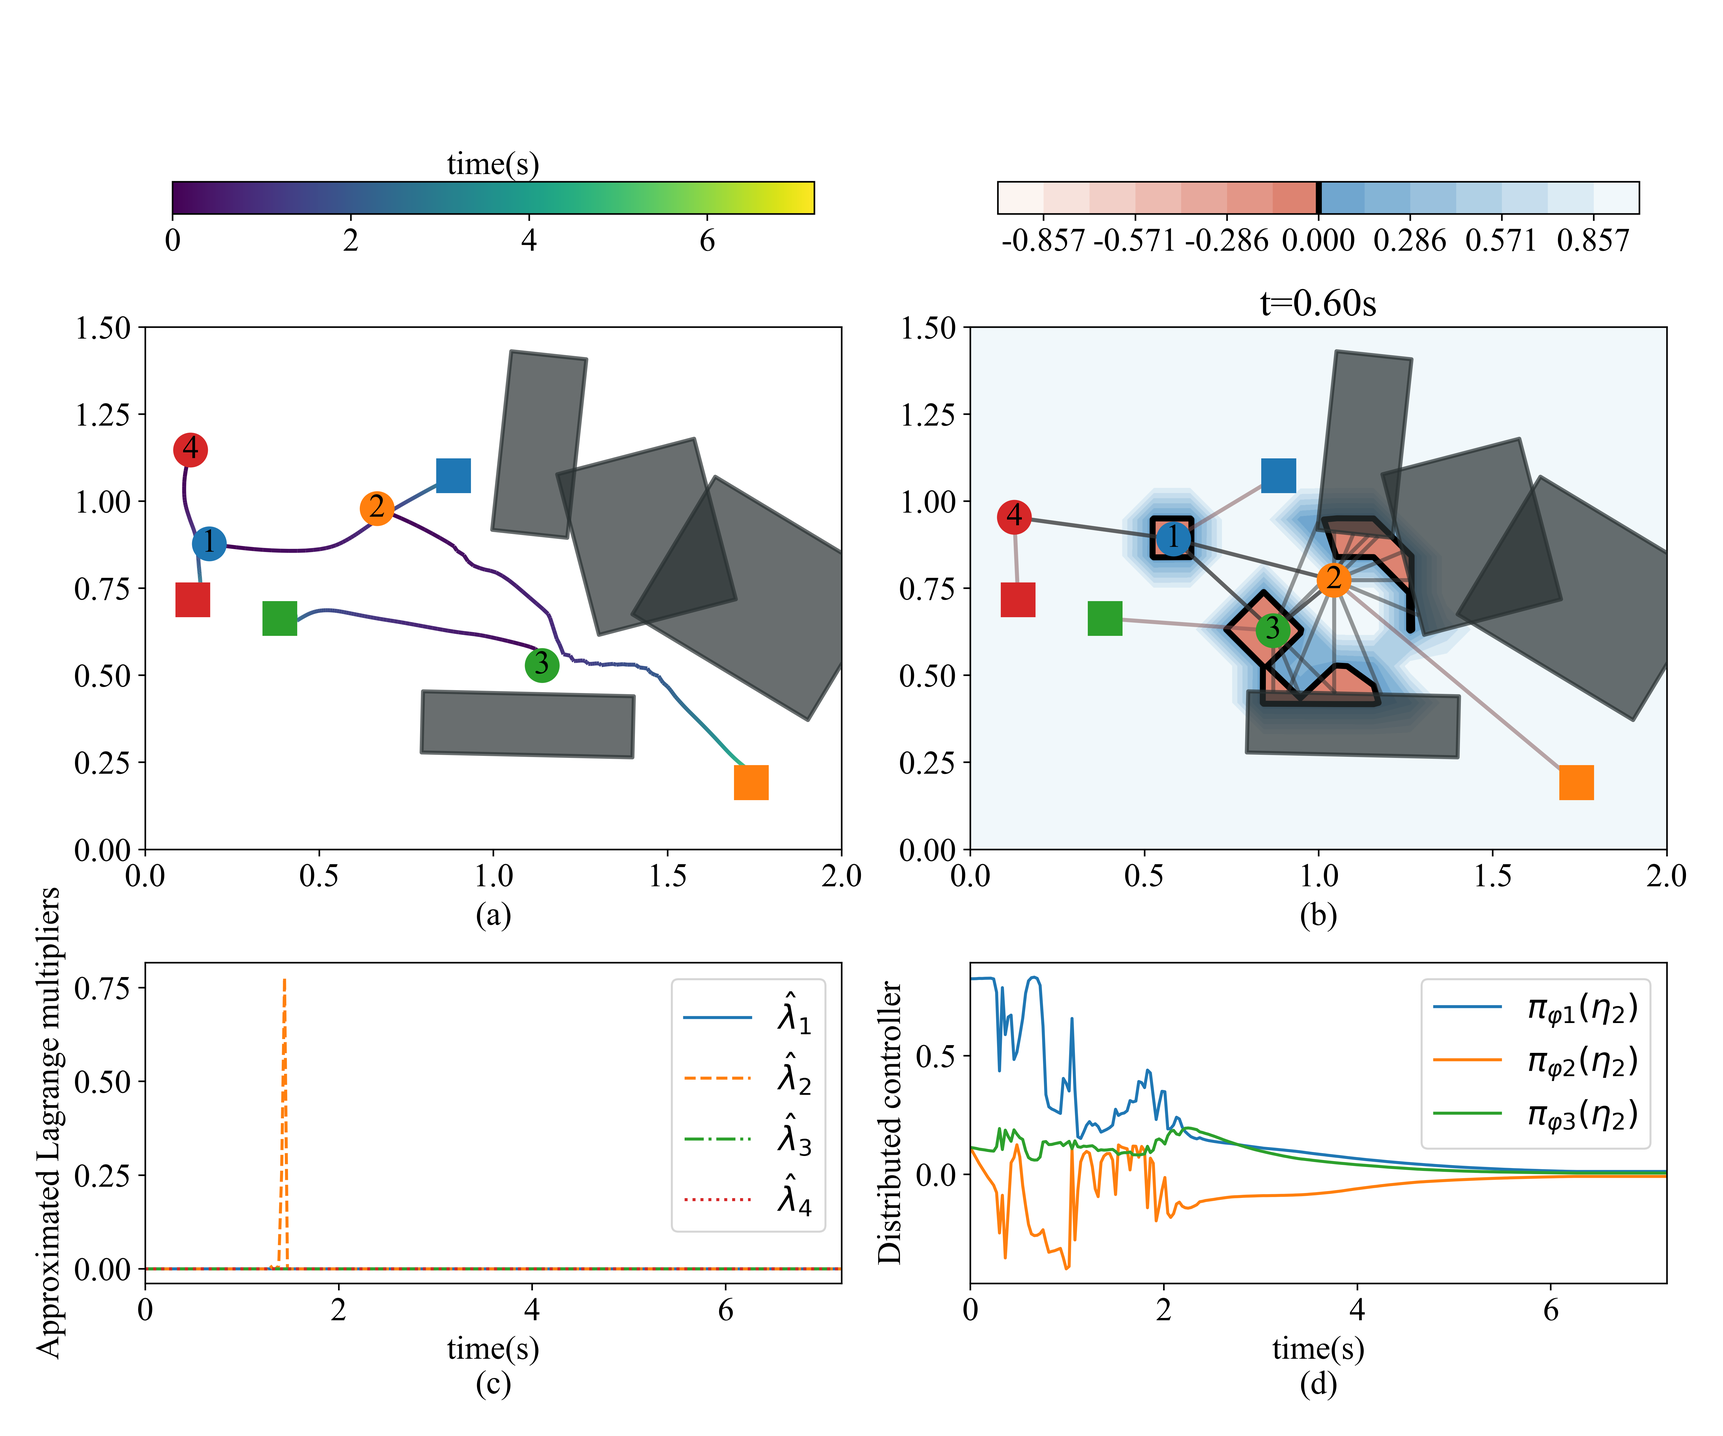
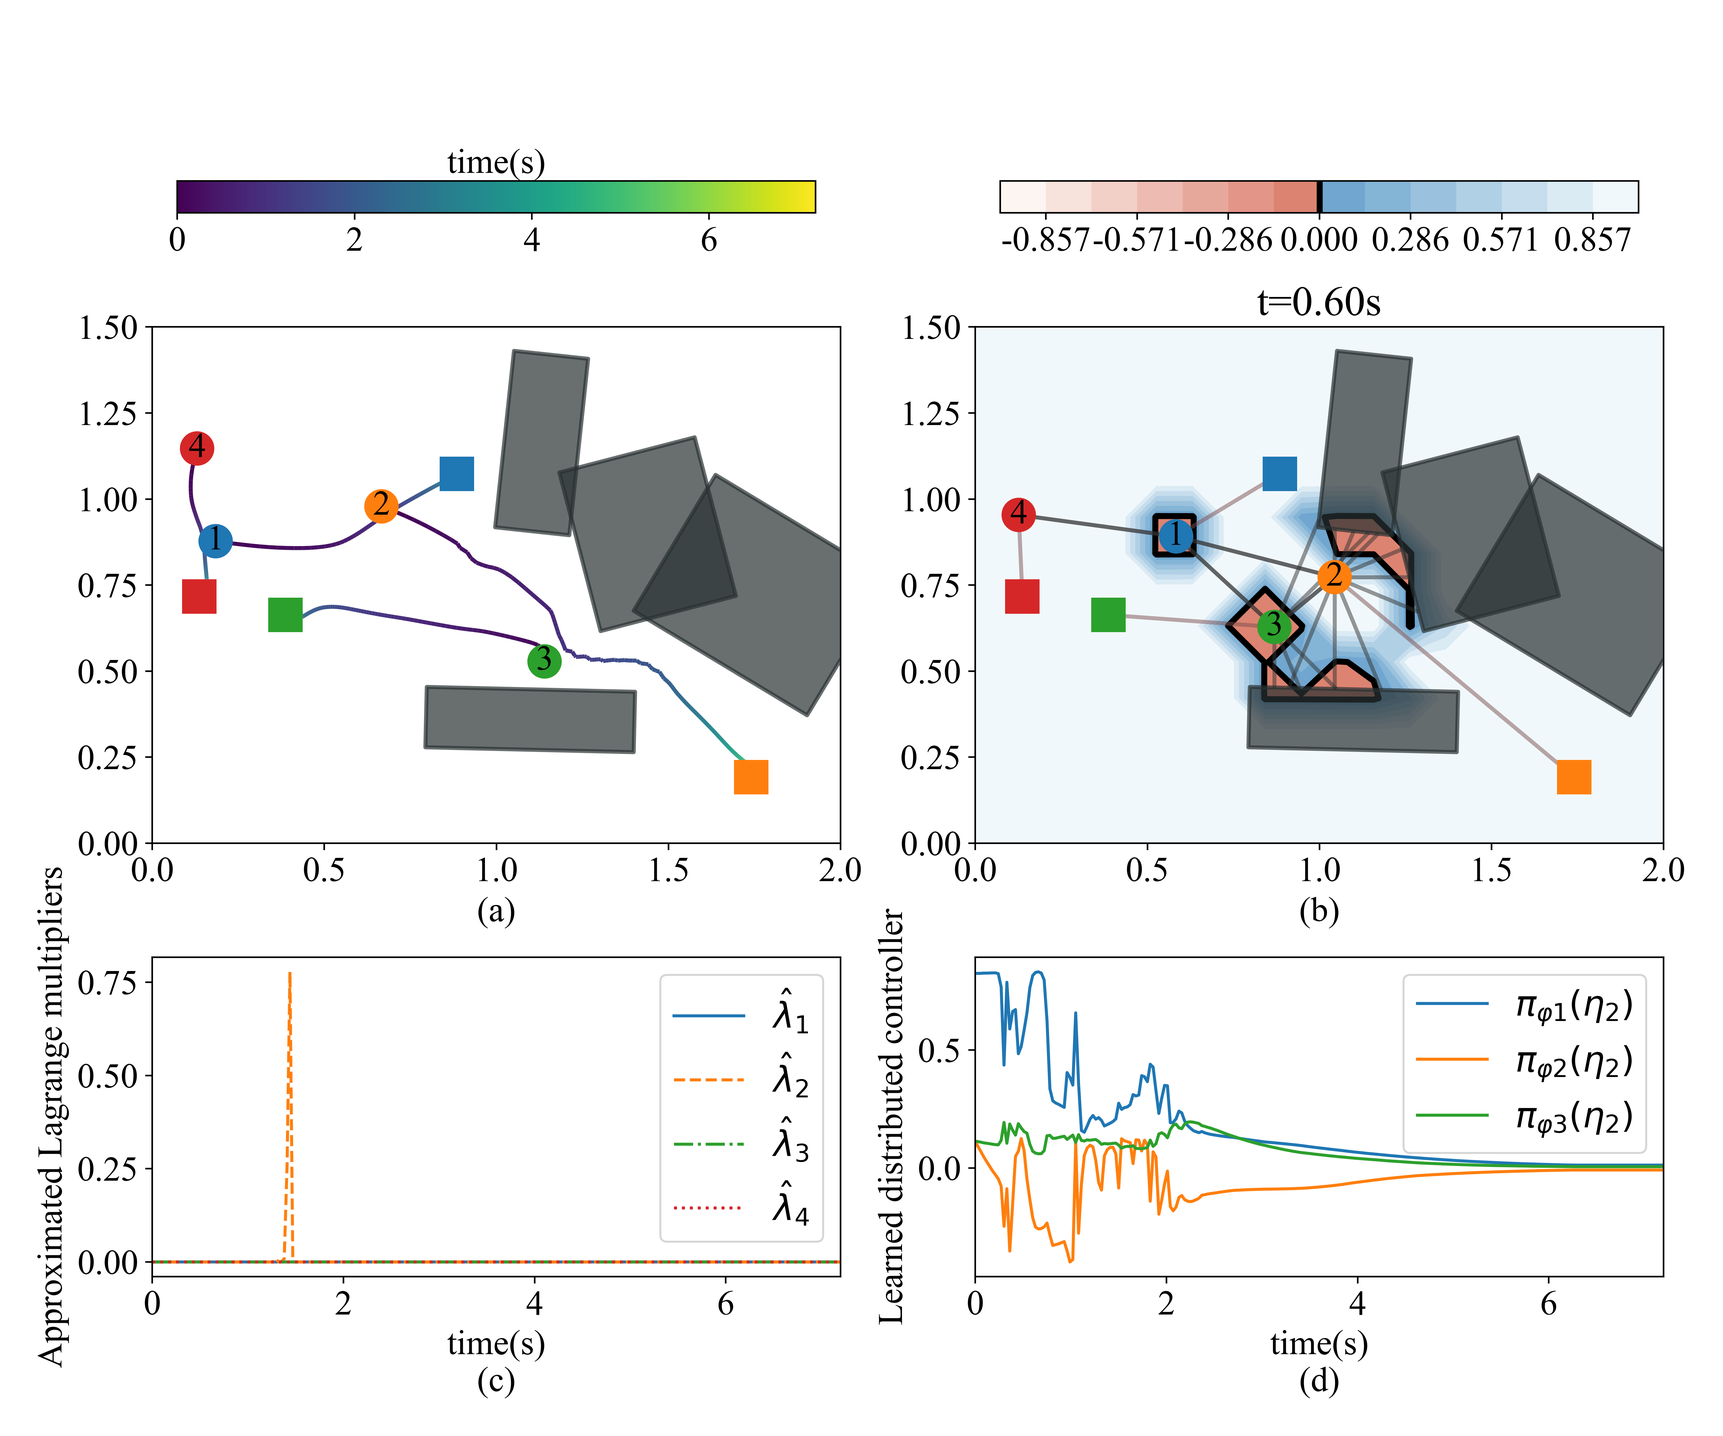
update HJB-GNN

diff --git a/assets/standalone/HJB-GNN/index.html b/assets/standalone/HJB-GNN/index.html
@@ -121,9 +121,10 @@
       <div class="column is-four-fifths">
         <h2 class="title is-3">Abstract</h2>
         <div class="content has-text-justified">
-          <p>Distributed multi-agent navigation faces inherent challenges due to the competing requirements of maintaining safety and achieving goal-directed behavior, especially for agents with limited sensing range and in environments with dense obstacles. Traditional navigation methods typically employ hand-crafted control barrier functions (CBFs) alongside pre-defined goal-reaching controllers, which often yield conservative and suboptimal trade-offs between safety and goal reaching.
-            This paper proposes a novel physics-informed learning framework for distributed safe multi-agent navigation. Specifically, we formulate infinite-horizon Hamilton-Jacobi-Bellman (HJB) equations subject to graph CBF-based safety constraints and employ graph neural networks (GNNs) to parameterize both a graph CBF and a distributed control policy. These components are jointly trained alongside a value function that robustly guides agents toward their goals. In addition, we introduce a state-dependent parameterization of Lagrange multipliers, enabling dynamic trade-offs between safety and performance. Unlike traditional short-horizon, quadratic programming-based CBF methods, our approach leverages long-horizon optimization to proactively avoid deadlocks and navigate complex environments more effectively.
-            Extensive simulation results demonstrate substantial improvements in safety and task success rates across various agent dynamics, with strong generalization to larger team sizes. Real-world experiments using crazyflie drone swarms on challenging antipodal position-swapping tasks further validate the practicality, scalability, and robustness of the proposed HJB-GNN framework.
+          <p>
+            Distributed multi-agent navigation faces inherent challenges due to the competing requirements of maintaining safety and achieving goal-directed behavior, particularly for agents with limited sensing range operating in unknown environments with dense obstacles. Existing approaches typically project predefined goal-reaching controllers onto control barrier function (CBF) constraints, often resulting in conservative and suboptimal trade-offs between safety and goal-reaching performance. 
+            We propose an infinite-horizon CBF-constrained optimal graph control formulation for distributed safe multi-agent navigation. By deriving the analytical solution structure, we develop a novel Hamilton-Jacobi-Bellman (HJB)-based learning framework to approximate the solution. In particular, our algorithm jointly learns a CBF and a distributed control policy, both parameterized by graph neural networks (GNNs), along with a value function that robustly guides agents toward their goals. Moreover, we introduce a state-dependent parameterization of Lagrange multipliers, enabling dynamic trade-offs between safety and performance. Unlike traditional short-horizon, quadratic programming-based CBF methods, our approach leverages long-horizon optimization to proactively avoid deadlocks and navigate complex environments more effectively.
+            Extensive simulation results demonstrate substantial improvements in safety and task success rates across various agent dynamics, with strong scalability and generalization to large-scale teams in previously unseen environments. Real-world experiments using Crazyflie drone swarms on challenging antipodal position-swapping tasks further validate the practicality, generalizability, and robustness of the proposed HJB-GNN learning framework. 
           </p>
         </div>
       </div>
@@ -140,6 +141,17 @@
     <!-- Main point hardware -->
     <div class="column">
       <h2 class="title is-3">Hardware Experiments</h2>
+
+      <div class="column">
+        <div class="columns is-centered">
+          <img src="static/images/fig8.png" class="center-image" style="max-width: 100%;" alt="fig 5">
+        </div>
+      </div>
+      <h3 style="margin-top: 20px">
+        Fig. 8. Hardware experiment setup for antipodal position-swapping task: (a) 8 Crazyflie drones without obstacle; (b) 2 Crazyflie drones with a long static obstacle; (c) 8 Crazyflie drones with large non-convex static obstacles; (d) 8 Crazyflie drones with both a static obstacle and a large dynamic obstacle mounted on a randomly moving car.
+      </h3>
+      <br><br><br><br>
+
       <div class="container">
 
         <!-- Grid container -->
@@ -147,63 +159,97 @@
 
           <!-- Carousel 1 -->
           <div id="carousel-1" class="carousel results-carousel" style="width: 100%;">
-            <div class="item">
+            <!-- <div class="item">
                 <img src="static/images/hardware-1.png" style="width: 100%;" alt="hardware 1">
-            </div>
+            </div> -->
             <div class="item">
               <video autoplay muted loop controls style="width: 100%;">
                 <source src="static/videos/hardware-1-2.mp4" type="video/mp4">
               </video>
+              <div style="margin-top: 0px; font-size: 1.0rem; text-align: center">(top view)</div>
             </div>
             <div class="item">
               <video autoplay muted loop controls style="width: 100%;">
                 <source src="static/videos/hardware-1.mp4" type="video/mp4">
               </video>
+              <div style="margin-top: 0px; font-size: 1.0rem; text-align: center">(side view)</div>
             </div>
           </div>
 
           <!-- Carousel 2 -->
-          <div id="carousel-2" class="carousel results-carousel" style="width: 100%;">
-            <div class="item">
+          <!-- <div id="carousel-2" class="carousel results-carousel" style="width: 100%;"> -->
+            <!-- <div class="item">
                 <img src="static/images/hardware-2.png" style="width: 100%;" alt="hardware 1">
-            </div>
-            <div class="item">
-              <video autoplay muted loop controls style="width: 100%;">
+            </div> -->
+            <div class="item" style="margin-bottom: 22px; display: flex; justify-content: center; align-items: center;">
+              <video autoplay muted loop controls style="width: 90%;">
                 <source src="static/videos/hardware-2.mp4" type="video/mp4">
               </video>
             </div>
-          </div>
+          <!-- </div> -->
+
+          <h3 class="has-text-weight-semibold" style="text-align: center">(a) 8 Crazyflie drones without obstacle</h3>
+          <h3 class="has-text-weight-semibold" style="text-align: center">(b) 2 Crazyflie drones with a long static obstacle</h3>
 
           <!-- Carousel 3 -->
           <div id="carousel-3" class="carousel results-carousel" style="width: 100%;">
-            <div class="item">
+            <!-- <div class="item">
                 <img src="static/images/hardware-3.png" style="width: 100%;" alt="hardware 1">
-            </div>
+            </div> -->
             <div class="item">
               <video autoplay muted loop controls style="width: 100%;">
                 <source src="static/videos/hardware-3.mp4" type="video/mp4">
               </video>
+              <div style="margin-top: 0px; font-size: 1.0rem; text-align: center">(top view)</div>
             </div>
             <div class="item">
               <video autoplay muted loop controls style="width: 100%;">
                 <source src="static/videos/hardware-3-2.mp4" type="video/mp4">
               </video>
+              <div style="margin-top: 0px; font-size: 1.0rem; text-align: center">(side view)</div>
             </div>
           </div>
 
           <!-- Carousel 4 -->
-          <div id="carousel-4" class="carousel results-carousel" style="width: 100%;">
-            <div class="item">
+          <!-- <div id="carousel-4" class="carousel results-carousel" style="width: 100%;"> -->
+            <!-- <div class="item">
                 <img src="static/images/hardware-4.png" style="width: 100%;" alt="hardware 1">
-            </div>
-            <div class="item">
-              <video autoplay muted loop controls style="width: 100%;">
+            </div> -->
+            <div class="item" style="margin-bottom: 22px; display: flex; justify-content: center; align-items: center;">
+              <video autoplay muted loop controls style="width: 90%;">
                 <source src="static/videos/hardware-4.mp4" type="video/mp4">
               </video>
             </div>
-          </div>
+          <!-- </div> -->
+
+
+          <h3 class="has-text-weight-semibold" style="text-align: center">(c) 8 Crazyflie drones with large non-convex static obstacles</h3>
+          <h3 class="has-text-weight-semibold" style="text-align: center">(d) 8 Crazyflie drones with both a static obstacle and a large dynamic obstacle mounted on a randomly moving car</h3>
+
         </div>
       </div>
+
+
+      <br><br><br><br>
+      <div class="column">
+        <div class="columns is-centered">
+          <img src="static/images/fig10.png" class="center-image" style="max-width: 60%;" alt="fig 5">
+        </div>
+      </div>
+      <h3 style="margin-top: 20px">
+        Fig. 10. Hardware experiment results: Minimum distances between each agent and other agents or obstacles over time for four sets of experiments under \(r=0.05{\rm m}\), corresponding to scenarios (a)-(d) in Fig. 8, respectively.
+      </h3>
+      <br><br><br><br>
+      <div class="column">
+        <div class="columns is-centered">
+          <img src="static/images/fig11.png" class="center-image" style="max-width: 60%;" alt="fig 5">
+        </div>
+      </div>
+      <h3 style="margin-top: 20px">
+        Fig. 11. Simulation trajectories of all Crazyflie drones correspond to four sets of experiments in Fig. 8. The upper gray rectangle in (d) indicates the initial position of dynamic obstacle in (d) of Fig. 8.
+      </h3>
+      <br><br><br><br>
+      
       <!-- <div class="content">
         <div class="content has-text-justified">
           <div class="columns is-centered">
@@ -349,35 +395,9 @@
     <!--/End Main point simulaiton -->
 
     <h2 class="title is-3" style="margin-top: 20px; margin-bottom: 20px">All Figures in the Paper</h2>
-    <h2 style="font-size: 20px; margin-top: 20px; margin-bottom: 20px; font-weight: bold">Validation Simulations</h2>
-    <!--/ Main point single comparison -->
-    <h3 style="margin-top: 20px">
-      Fig. 1. Comparison between QP-GCBF+ of [31] in (a) and the proposed HJB-GNN in (b). An agent (a gradient-colored circle) aims to reach the goal (blue rectangle) while avoiding static obstacles (gray rectangles) within a \(4{\rm m}\times4{\rm m}\) region. The black arrow indicates the velocity direction of the agent. The QP-GCBF+ has deadlock near obstacles, and the HJB-GNN approach achieves goal-reaching without collision. 
-    </h3>
-    <div class="column">
-      <div class="columns is-centered">
-        <video width="40%" autoplay="" muted="" loop="">
-          <source src="static/videos/video6_ori.mp4" type="video/mp4">
-        </video>
-        <video width="40%" autoplay="" muted="" loop="">
-          <source src="static/videos/video6_our.mp4" type="video/mp4">
-        </video>
-      </div>
-      <div class="columns is-centered">
-        <img src="static/images/fig6.png" class="center-image" style="max-width: 80%;" alt="fog 6 plot">
-      </div>
-    </div>
-    <!--/End Main point single comparison -->
-
-    <!--/ Main point lagrange -->
-    <h3 style="margin-top: 20px">
-      Fig. 2. Illustration of our HJB-GNN approach on the unmanned surface vessel under 4 agents and 4 static obstacles case in a \(2\,\mathrm{m} \times 1.5\,\mathrm{m}\) region: 
-      (a) four agents (circles) reach their respective goals (rectangles with the same color as agents) while avoiding collisions with other agents and static obstacles (gray rectangles),  
-      (b) graph CBF contour of agent 2 at \(t=0.6{\rm s}\),  
-      (c) approximated Lagrange multipliers \(\hat{\lambda}_i,\ i=1,2,3,4\) of four agents, and  
-      (d) distributed controller \(\pi_{\varphi}(\eta_2)=[\pi_{\varphi 1}(\eta_2),\pi_{\varphi 2}(\eta_2),\pi_{\varphi 3}(\eta_2)]^T\) of agent 2.
-    </h3>
-      
+    <h2 style="font-size: 20px; margin-top: 20px; margin-bottom: 20px; font-weight: bold">Simulations for the HJB-GNN Learning Approach</h2>
+ 
+    <!--/ Main point lagrange -->     
     <div class="column">
       <div class="columns is-centered">
         <video width="40%" autoplay="" muted="" loop="">
@@ -391,24 +411,50 @@
         <img src="static/images/fig2.png" class="center-image" style="max-width: 80%;" alt="fig 2 plot">
       </div>
     </div>
+    <h3 style="margin-top: 20px">
+      Fig. 2. Illustration of our HJB-GNN approach on the unmanned surface vessel under 4 agents and 4 static obstacles case in a \(2\,\mathrm{m} \times 1.5\,\mathrm{m}\) region: 
+      (a) four agents (numbered circles indicating their initial positions) reach their respective goals (squares with the same color as agents) while avoiding collisions with other agents and static obstacles (gray rectangles),  
+      (b) graph CBF contour of agent 2 at \(t=0.6{\rm s}\),  
+      (c) approximated Lagrange multipliers \(\hat{\lambda}_i,\ i=1,2,3,4\) of four agents, and  
+      (d) learned distributed controller \(\pi_{\varphi}(\eta_2)=[\pi_{\varphi 1}(\eta_2),\pi_{\varphi 2}(\eta_2),\pi_{\varphi 3}(\eta_2)]^T\) of agent 2.
+    </h3>
+    <br><br><br><br>
     <!--/End Main point lagrange -->
 
     <!--/ Main point fig 3 -->
-    <h3 style="margin-top: 20px">
-      Fig. 3. Safe-reaching rates ((a), (c), (e)) and safety rates ((b), (d), (f)) for 2D unmanned surface vessel under fixed area width. (a)-(b): no obstacle with increasing number of agents, (c)-(d): 256 agents with increasing number of obstacles, and (e)-(f): 1024 agents with increasing number of obstacles. 
-    </h3>
     <div class="column">
       <div class="columns is-centered">
         <img src="static/images/fig1.png" class="center-image" style="max-width: 100%;" alt="fig 1">
       </div>
     </div>
+    <h3 style="margin-top: 20px">
+      Fig. 3. Safe-reaching rates ((a), (c), (e)) and safety rates ((b), (d), (f)) for 2D unmanned surface vessel under fixed area width. (a)-(b): no obstacle with increasing numbers of agents, (c)-(d): 256 agents with increasing numbers of obstacles, and (e)-(f): 1024 agents with increasing numbers of obstacles. 
+    </h3>
+    <br><br><br><br>
     <!--/End Main point fig 3 -->
 
     <h2 style="font-size: 20px; margin-top: 20px; margin-bottom: 20px; font-weight: bold">Comparative Simulations</h2>
-    <!--/ Main double integrator comparison-->
+      <!--/ Main point single comparison -->
+      <div class="column">
+      <div class="columns is-centered">
+        <video width="40%" autoplay="" muted="" loop="">
+          <source src="static/videos/video6_ori.mp4" type="video/mp4">
+        </video>
+        <video width="40%" autoplay="" muted="" loop="">
+          <source src="static/videos/video6_our.mp4" type="video/mp4">
+        </video>
+      </div>
+      <div class="columns is-centered">
+        <img src="static/images/fig6.png" class="center-image" style="max-width: 80%;" alt="fog 6 plot">
+      </div>
+    </div>
     <h3 style="margin-top: 20px">
-      Fig. 4. Comparisons between the QP-GCBF+ method ((a), (c), and (e)) in [31] and our HJB-GNN approach ((b), (d), and (f)) under three cases with four agents (circles) and four static obstacles (gray rectangles) in a \(2{\rm m}\times2{\rm m}\) region. Agent 1 in (a) and agent 2 in (e) experience deadlock, and agent 3 in (c) collides with an obstacle. All agents safely reach their respective goals (rectangles with the same colors as the agents) in (b), (d), and (f). 
+      Fig. 1. Comparison between QP-GCBF+ of [32] in (a) and our HJB-GNN in (b). An agent (a gradient-colored circle) aims to reach the goal (blue square) while avoiding static obstacles (gray rectangles) within a \(4{\rm m}\times4{\rm m}\) region. The black arrow indicates the velocity direction of agent. The QP-GCBF+ has deadlock near obstacles, and our HJB-GNN approach achieves goal-reaching without collision. 
     </h3>
+    <br>
+    <!--/End Main point single comparison -->
+
+    <!--/ Main double integrator comparison-->
     <div class="column">
       <div class="columns is-centered">
         <video width="33%" autoplay="" muted="" loop="">
@@ -436,35 +482,42 @@
         <img src="static/images/fig7.png" class="center-image" style="max-width: 100%;" alt="fig 7">
       </div>
     </div>
+    <h3 style="margin-top: 20px">
+      Fig. 4. Comparisons between the QP-GCBF+ method ((a), (c), and (e)) in [32] and our HJB-GNN approach ((b), (d), and (f)) under three cases with four agents (circles indicating their initial positions) and four static obstacles (gray rectangles) in a \(2{\rm m}\times2{\rm m}\) region. Agent 1 in (a) and agent 2 in (c) experience deadlock, and agent 3 in (e) collides with an obstacle. All agents safely reach their respective goals (squares with the same colors as agents) in (b), (d), and (f). 
+    </h3>
+    <br><br><br><br>
     <!--/End Main double integrator comparison-->
 
 
 
     <!--/ Main point fig 345 -->
-    <h3 style="margin-top: 20px">
-      Fig. 5. Safe-reaching rates and safety rates for increasing number of agents and no obstacle under fixed area width. (a)-(b): 2D double integrator, and (c)-(d): 3D crazyflie drone. 
-    </h3>
     <div class="column">
       <div class="columns is-centered">
         <img src="static/images/fig3.png" class="center-image" style="max-width: 60%;" alt="fig 3">
       </div>
     </div>
     <h3 style="margin-top: 20px">
-      Fig. 6. Safe-reaching rates and safety rates for increasing number of obstacles and 256 agents under fixed area width. (a)-(b): 2D double integrator, and (c)-(d): 3D crazyflie drone. 
+      Fig. 5. Safe-reaching rates and safety rates for increasing numbers of agents and no obstacle under fixed area width. (a)-(b): 2D double integrator, and (c)-(d): 3D Crazyflie drone. 
     </h3>
+    <br><br><br><br>
     <div class="column">
       <div class="columns is-centered">
         <img src="static/images/fig4.png" class="center-image" style="max-width: 60%;" alt="fig 4">
       </div>
     </div>
     <h3 style="margin-top: 20px">
-      Fig. 7. Safe-reaching rates and safety rates for increasing number of obstacles and 1024 agents under fixed area width. (a)-(b): 2D double integrator, and (c)-(d): 3D crazyflie drone. 
+      Fig. 6. Safe-reaching rates and safety rates for increasing numbers of obstacles and 256 agents under fixed area width. (a)-(b): 2D double integrator, and (c)-(d): 3D Crazyflie drone. 
     </h3>
+    <br><br><br><br>
     <div class="column">
       <div class="columns is-centered">
         <img src="static/images/fig5.png" class="center-image" style="max-width: 60%;" alt="fig 5">
       </div>
     </div>
+    <h3 style="margin-top: 20px">
+      Fig. 7. Safe-reaching rates and safety rates for increasing numbers of obstacles and 1024 agents under fixed area width. (a)-(b): 2D double integrator, and (c)-(d): 3D Crazyflie drone. 
+    </h3>
+    <br><br><br><br>
     <!--/End Main point fig 345 -->
 
 </div></section>
